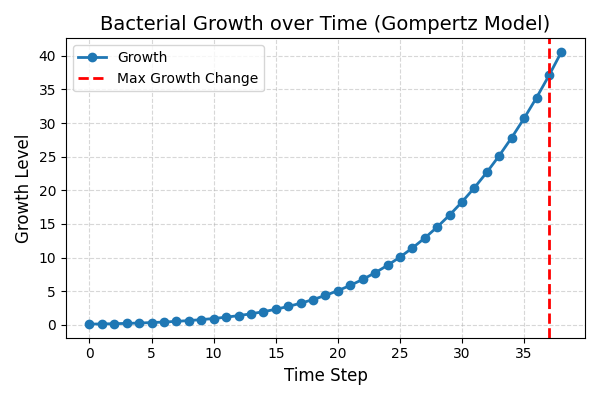
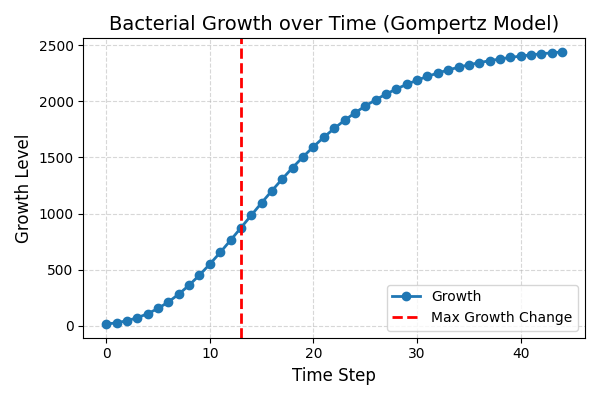
bundle of display changes and multiple species

diff --git a/growth_model/templates/index.html b/growth_model/templates/index.html
@@ -5,36 +5,12 @@
     <style>
         /* Center the form */
         form {
-            width: 500px;
+            width: 1000px;
             margin: auto;
+            align-self: center;
         }
-        
-        /* Each slider row as flex */
-        .slider-row {
-            display: flex;
-            align-items: center;
-            margin-bottom: 15px;
-        }
-        
-        /* Label takes fixed width */
-        .slider-row label {
-            width: 150px;
-        }
-        
-        /* Slider takes remaining space */
-        .slider-row input[type=range] {
-            flex: 1;
-        }
-        
-        /* Number display: fixed width, slightly right-shifted */
-        .slider-row span {
-            display: inline-block;
-            width: 80px; /* fixed width prevents jumping */
-            text-align: right; /* shift numbers slightly to the right */
-            margin-left: 10px;
-            font-family: monospace; /* optional, makes width more consistent */
-        }
-        </style>
+
+            </style>
 
 </head>
 <body>
@@ -44,15 +20,15 @@
     <form id="growthform" method="POST" action="{% url 'index' %}">
         {% csrf_token %}
         <label for="i_density">Initial Density:</label>
-        <input type="range" id="i_density" name="i_density"  min="0.00001" max="1" step="0.01"value="0.1">
-        <span id="i_density_val">0.1</span><br><br>
+        <input type="range" id="i_density" name="i_density"  min="1" max="100" step="1"value="15">
+        <span id="i_density_val">15</span><br><br>
         
         <label for="p_density">Plateau Density:</label>
-        <input type="range" id="p_density" name="p_density" min="1" max="1000" value="1000">
-        <span id="p_density_val">1000</span><br><br>
+        <input type="range" id="p_density" name="p_density" min="1" max="5000" value="2500">
+        <span id="p_density_val">2500</span><br><br>
         
         <label for="g_rate">Growth Rate:</label>
-        <input type="range" id="g_rate" name="g_rate" min="0.1" max="1" step="0.01" value="0.15">
+        <input type="range" id="g_rate" name="g_rate" min="0.1" max="1" step="0.05" value="0.15">
         <span id="g_rate_val">0.15</span><br><br>
 
         <label for="temperature">Temperature:</label>
@@ -60,12 +36,28 @@
         <span id="temperature_val">37</span><br><br>
 
         <label for="time_steps">Time Steps:</label>
-        <input type="range" id="time_steps" name="time_steps" min="30" max="500" step="1" value="45">
+        <input type="range" id="time_steps" name="time_steps" min="30" max="10000" step="1" value="45">
         <span id="time_steps_val">45</span><br><br>
 
         <label for="Species to model"></label>
-        <input type="checkbox" id="species" name="species" value="E.coli" checked>
+        <input type="radio" id="species" name="species" value="E.coli" checked>
         <span>Model E.coli growth</span><br><br>        
+
+        <label for="Species to model"></label>
+        <input type="radio" id="species" name="species" value="S.aureus" >
+        <span>Model S.aureus growth</span><br><br>        
+
+        <label for="Species to model"></label>
+        <input type="radio" id="species" name="species" value="L.monocytogenes" >
+        <span>Model L.monocytogenes growth</span><br><br>        
+
+        <label for="Species to model"></label>
+        <input type="radio" id="species" name="species" value="P.aeruginosa" >
+        <span>Model P.aeruginosa growth</span><br><br>        
+
+        <label for="Species to model"></label>
+        <input type="radio" id="species" name="species" value="B.subtilis" >
+        <span>Model B.subtilis growth</span><br><br>        
 
         <input type="submit" value="Submit">
     </form>
@@ -89,8 +81,6 @@
         });
     </script>
 
-
-
 <h2>
 <div id="result_div" style="display: flex; gap: 20px; justify-content: center;"> 
     <!-- Results will be injected here -->
@@ -98,7 +88,7 @@
 </h2>
 
 <script>
-    const form = document.getElementById("growthform");
+    const form = document.getElementById("growthform"); // the form element we monitor for the posts 
 
     form.addEventListener("submit", function(e) {
         e.preventDefault(); // stop full page reload
@@ -115,7 +105,7 @@
         })
         .then(response => response.text())
         .then(html => {
-            document.getElementById("result_div").innerHTML = html;
+            document.getElementById("result_div").innerHTML = html; // where we injec the resutls
         })
         .catch(err => console.error("Error fetching result:", err));
     });

diff --git a/growth_model/templates/partials/result.html b/growth_model/templates/partials/result.html
@@ -1,5 +1,8 @@
 {% load static %}
 <div>{{ result|safe }}</div>
 <div>
-    <img src="{% static 'images/scatter_growth.png' %}" alt="Result plot" style="max-width: 600px;">
+    <div>
+        <img src="{% static 'images/scatter_growth.png' %}?t={{ timestamp }}" 
+             alt="Result plot" style="max-width: 600px;">
+    </div>
 </div>

diff --git a/growth_model/growth_model/utils.py b/growth_model/growth_model/utils.py
@@ -4,7 +4,7 @@ import math
 import pandas as pd
 from matplotlib import pyplot as plt
 import os
-
+from pprint import pprint
 class GompertzGrowth:
     def __init__(self, N0, Ninf, μopt, temperature, Tmin, Tmax,Topt):
         """
@@ -20,23 +20,34 @@ class GompertzGrowth:
         self.μopt = μopt # Optimal growth rate
 
     def temperature_dependent_growth_rate(self):
-        #µ(𝑇)=µ𝑜𝑝𝑡·(𝑇−𝑇𝑚𝑎𝑥)·(𝑇−𝑇𝑚𝑖𝑛)2(𝑇𝑜𝑝𝑡−𝑇𝑚𝑖𝑛)·[(𝑇𝑜𝑝𝑡−𝑇𝑚𝑖𝑛)·(𝑇−𝑇𝑜𝑝𝑡)−(𝑇𝑜𝑝𝑡−𝑇𝑚𝑎𝑥)·(𝑇𝑜𝑝𝑡+𝑇𝑚𝑖𝑛−2·𝑇)]  This is this the new equation I'm trying to implment Lobry and Rosso 1991 it models bacterial growth while accounting for enzyme denatureation, the CTMI model
+        #µ(𝑇)=µ𝑜𝑝𝑡·(𝑇−𝑇𝑚𝑎𝑥)·(𝑇−𝑇𝑚𝑖𝑛)2(𝑇𝑜𝑝𝑡−𝑇𝑚𝑖𝑛)·[(𝑇𝑜𝑝𝑡−𝑇𝑚𝑖𝑛)·(𝑇−𝑇𝑜𝑝𝑡)−(𝑇𝑜𝑝𝑡−𝑇𝑚𝑎𝑥)·(𝑇𝑜𝑝𝑡+𝑇𝑚𝑖𝑛−2·𝑇)]  This is this the new equation I'm trying to implment Lobry and Rosso 1991 it will take bacterial growth under optimal conditions and modify it based on optimal maximal and minimal temperatures, the CTMI model
        
-        # µ chemical potenial of substate at temperature T
-        # µopt optimal chemical potential of substrate
+        # µ 'chemical potenial of substate at temperature T'
+        # µopt 'optimal chemical potential of substrate'
         # Topt optimal temperature for growth
         # Tmin minimum temperature for growth
         # Tmax maximum temperature for growth
         # T current temperature
-        # For now we will use a simplified version that reduces growth rate linearly beyond Tmax
+        # For now we will use a simplified version that reduces growth rate linearly beyond Tmax and clamps to zero below Tmin
+        
+        if self.temperature < self.Tmin:
+            print("No growth below minimum temperature")
+            return 0  # No growth below minimum temperature
+        elif self.temperature > self.Tmax:
+            #μdeath(T)=−k⋅(T−Tmax)
+            print("temperature above maximum, applying death rate")
+            k = 0.1 * self.μopt  # Death rate constant, should adjust in species info and define better
+            μ_death = k * (self.temperature - self.Tmax)
+            return -μ_death   # Negative growth rate indicates death
+        else: #normal growth rate  modification
+            print("temperature within growth range, applying growth rate")
             numerator = (self.temperature - self.Tmax) * (self.temperature - self.Tmin)**2
             denomenator = (self.Topt - self.Tmin) * ((self.Topt - self.Tmin)*(self.temperature - self.Topt) - (self.Topt - self.Tmax)*(self.Topt + self.Tmin - 2*self.temperature))
             μ = self.μopt *  (numerator/ denomenator)
-            return  μ
+            return  μ #The current growth rate at the given temperature 
 
-    def evaluate_at_time_step(self, t):
-        μ = self.temperature_dependent_growth_rate()
-
+    def evaluate_at_time_step(self, t, μ):
+        
         # CASE 1: Growth
         if μ > 0:
             density_at_step = self.N0 * math.exp(math.log(self.Ninf / self.N0) * (1 - math.exp(-μ * t)))
@@ -50,10 +61,12 @@ class GompertzGrowth:
 def run_simulation(model,number_of_time_steps):
     time_steps = []
     densitys = []
+    μ  = model.temperature_dependent_growth_rate()
     
+    print(f"Current growth rate μ: {μ}")
     for t in range(0, number_of_time_steps): #Evaluate for 30 time steps
         time_steps.append(t) # Make a list of the current time step
-        densitys.append(model.evaluate_at_time_step(t)) # make a list of the growth density at the current time step
+        densitys.append(model.evaluate_at_time_step(t, μ)) # make a list of the growth density at the current time step
 
     growth_data = pd.DataFrame({
         "time step": time_steps,
@@ -110,8 +123,8 @@ def get_max_min_optimal_temperature(species):
     return species_stats
 
 def run_model(ininital_density,platau_density,growth_rate,temperature,species,number_of_time_steps):
-    ininital_density= float(ininital_density,)
-    platau_density = float(platau_density)
+    ininital_density= int(ininital_density,)
+    platau_density = int(platau_density)
     growth_rate = float(growth_rate)
     temperature = float(temperature)
     number_of_time_steps = int(number_of_time_steps)

diff --git a/growth_model/growth_model/views.py b/growth_model/growth_model/views.py
@@ -1,5 +1,6 @@
 from django.shortcuts import render
 from .utils import run_model
+from django.utils.timezone import now
 
 def index(request):
     growth_html_string = None  # initialize to prevent reference errors
@@ -18,7 +19,7 @@ def index(request):
             growth_df = run_model(ininital_density, platau_density, growth_rate,
                                   temperature, species, number_of_time_steps)
             growth_html_string = growth_df.to_html(header=True, table_id="growth_table")
-            context = {"result": growth_html_string, "searched": True}
+            context = {"result": growth_html_string,"searched": True, "timestamp": now().timestamp()}
 
         # Check for AJAX request
         if request.headers.get("x-requested-with") == "XMLHttpRequest":
